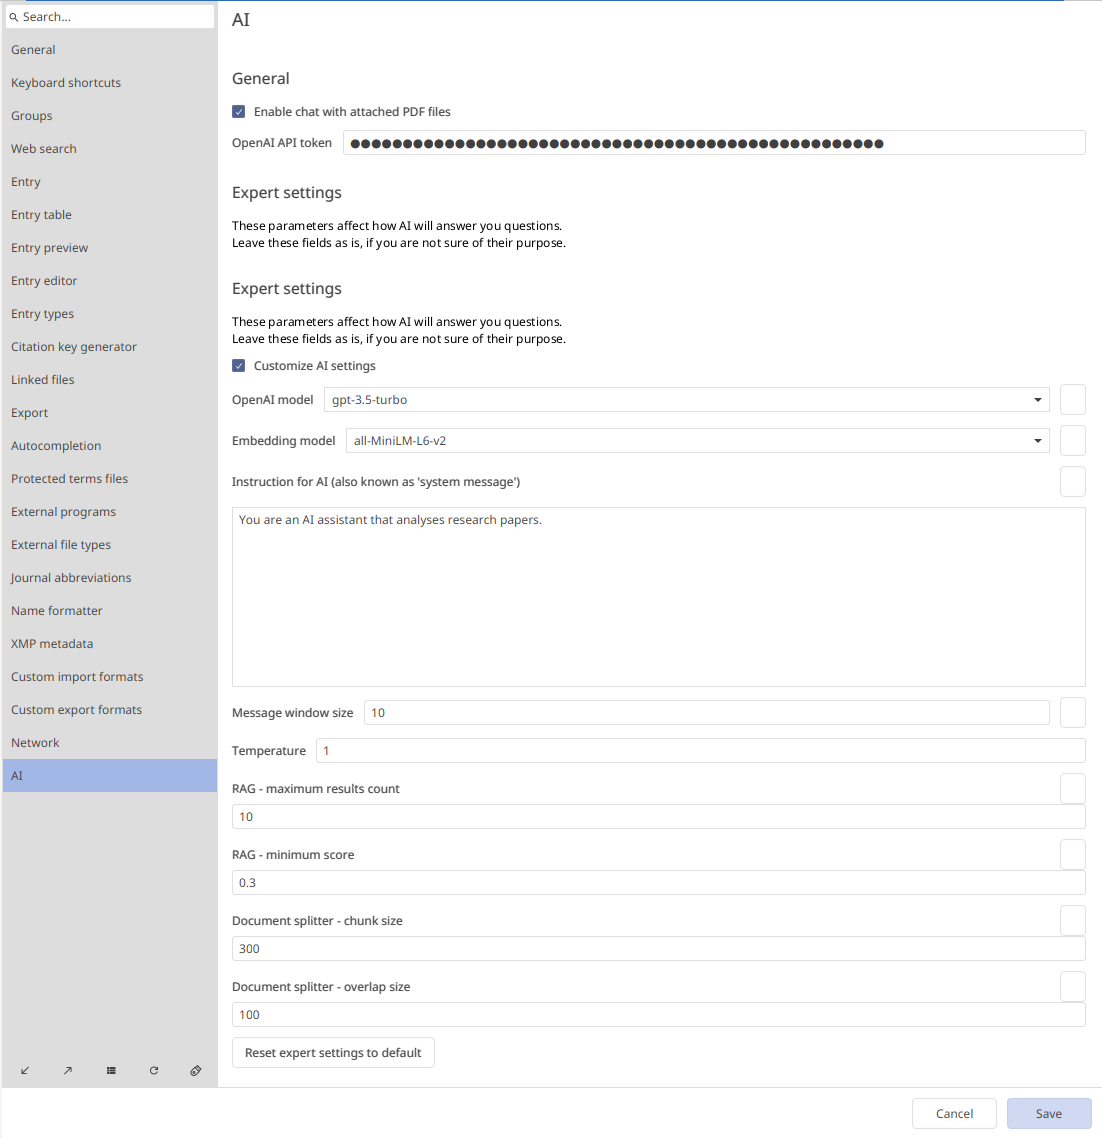
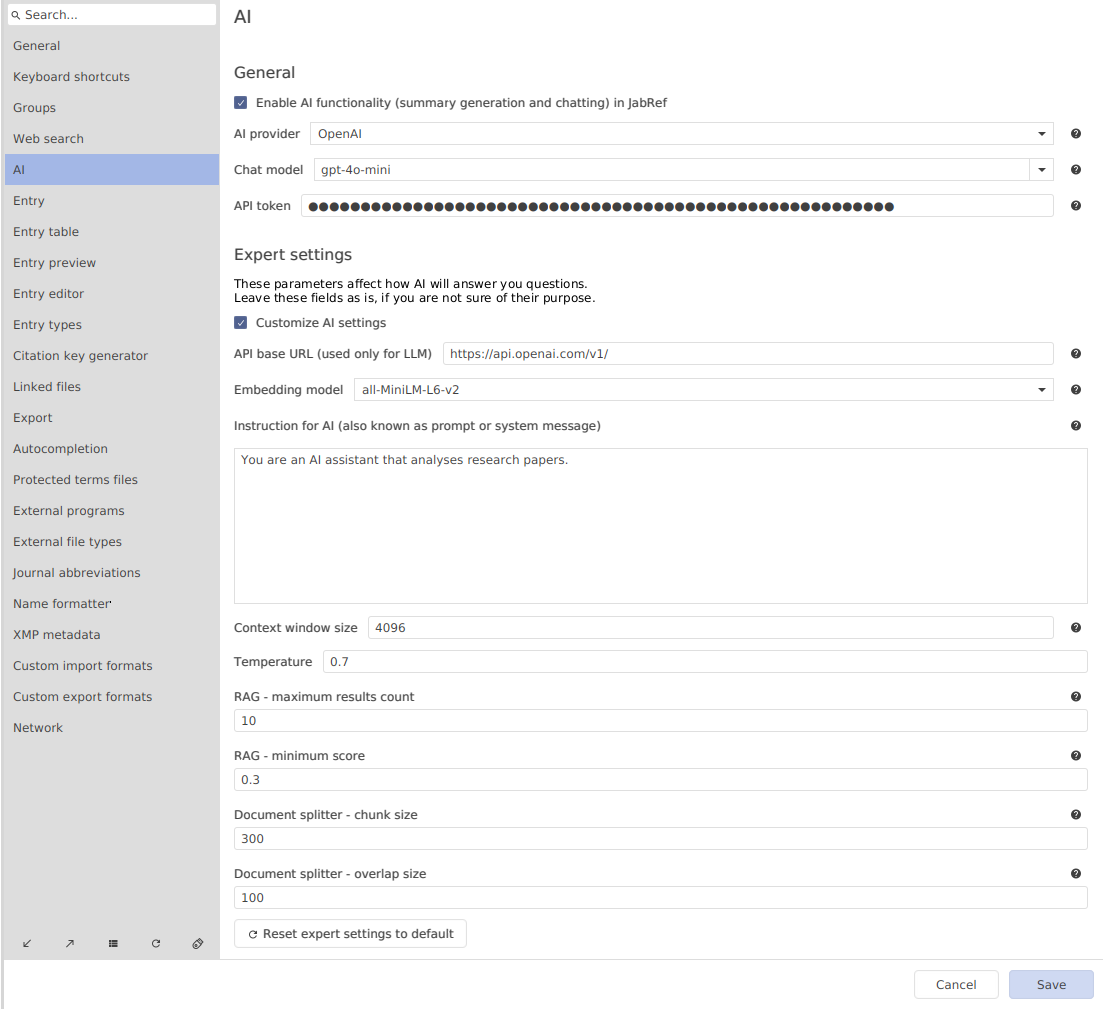
Add more AI providers and summarization

diff --git a/_posts/2024-07-01-AI-chatting.md b/_posts/2024-07-01-AI-chatting.md
@@ -6,13 +6,24 @@ author: "[Ruslan](https://github.com/InAnYan)"
 
 Hello, everyone! My name is Ruslan and I'm a novice JabRef contributor and I'm working on AI project for [Google Summer of Code](https://summerofcode.withgoogle.com/).
 
-I want to introduce you to the new AI features in JabRef. Now, while you are managing your research library, you can also chat with papers using a smart AI assistant.
+I want to introduce you to the new AI features in JabRef.
+
+- AI can generate for you a summary of a research paper
+- You can also chat with papers using a smart AI assistant
+
+## AI summary tab
+
+We have made a new entry editor tab: "AI Summary", where AI will generate for you a quick overview of the paper.
+
+![AI summary tab screenshot](../img/AiSummary.png)
+
+The AI will mention for you main objectives of the research, methods used, key findings, and conclusions.
 
 ## AI chat tab
 
-We have made a new entry editor tab: "AI chat", where all the chatting happens.
+The next new entry editor tab is "AI chat", where all the question and answering (Q&A) happens.
 
-![AI chat tab screenshot](../img/AiIntro.png)
+![AI chat tab screenshot](../img/AiChat.png)
 
 In this window you can see the following elements:
 
@@ -27,31 +38,62 @@ Let's ask about the chocolate.
 ![AI first question and answer](../img/AiQuestion1.png)
 
 Correct! The authors talk a lot about chocolate components, and how it can be a powerfull antioxidant.
+Wow! AI has given so much infromation, and it's true: chocolate really contains polyphenols and fatty acids.
 
-It seems the AI mentioned the amount of chocolate a human should eat. Let's dive in this topic.
+I was wondering, how much chocolate should a human eat in a day? Let's dive in this topic.
 
 ![AI second question and answer](../img/AiQuestion2.png)
 
-*Only 40 grams?* Well, health is our wealth. And AI helped us to uncover this information fast!
+*Only 40 grams?* Well, our health is our wealth. And AI helped us to uncover this information!
 
 ## How does this work?
 
-In the background, JabRef analyses the linked PDF files of library entries. The information used after the indexing is then supplied to the AI, which, to be precise, in our case is a Large Language Model (LLM). The LLM is currently not stored on your computer. Instead, we used OpenAI's ChatGPT service, which is only available remotely via the internet. In short: we send chunks of text to OpenAI's service and then receive processed responses. In order to use it you need to configure JabRef to use your OpenAI [API](https://en.wikipedia.org/wiki/API) key.
+In the background, JabRef analyses the linked PDF files of library entries. The information used after the indexing is then supplied to the AI, which, to be precise, in our case is a Large Language Model (LLM). The LLM is currently not stored on your computer. Instead, we have many integrations with AI providers (OpenAI, Mistral AI, Hugging Face), so you can choose the one you like the most. These AI providers are available only remotely via the internet. In short: we send chunks of text to AI service and then receive processed responses. In order to use it you need to configure JabRef to use your [API](https://en.wikipedia.org/wiki/API) key.
 
-## How to get an OpenAI API key?
+## Which AI provider should I use?
 
-Unfortunately you need to pay OpenAI a minimum fee for using ChatGPT via API, which is at the date of writing 5$. We will describe all the necessary steps in this step. 
+We recomend you chosing the OpenAI.
+
+For Mistral AI you need to make a subscription, while for OpenAI you can send money one time.
+
+Hugging Face gives you access to numerous count of models for free. But it will take a very long time for Hugging Face to find a free computer resources for you, and the response time will be also long.
+
+## How to get an API key?
+
+### How to get an OpenAI API key?
 
 To get an OpenAI API key you need to perform these steps:
 
-1. Login or create account [there](https://platform.openai.com/login?launch)
+1. Login or create an account on [OpenAI website](https://platform.openai.com/login?launch)
 2. Go to "API" section
 3. Go to "Dashboard" (upper-right corner)
 4. Go to "API keys" (left menu)
 5. Click "Create new secret key"
 6. Click "Create secret key"
-7. OpenAI will show you the key. Do not share it with anyone. 
-    
+7. OpenAI will show you the key
+
+### How to get a Mistral AI API key?
+
+1. Login or create an account on [Mistral AI website](https://auth.mistral.ai/ui/login)
+2. Go to the [dashboard -> API keys](https://console.mistral.ai/api-keys/)
+3. There you will find a button "Create new key". Click on it
+4. You can optionally setup a name to API key and its expiration date
+5. After the creation, you will see "Your key is:" with a string of random characters after that
+
+### How to get a Hugging Face API key?
+
+Hugging Face call an "API key" as "Access Token". It does not make much difference, you can interchangably use either "API key", or "API token", or "access token".
+
+1. [Login](https://huggingface.co/login) or [create account](https://huggingface.co/join) on Hugging Face
+2. Go to [create access token](https://huggingface.co/settings/tokens/new?)
+3. Set "Token Type" to "Read"
+4. Name a token
+5. After you click "Create token", a popup will be shown with the API key
+
+## What should I do with the API key and how can I enter it in JabRef?
+
+Don't share the key to anyone, it's a secret that was created only for your account. Don't enter this key to unknown and unverfied services.
+
 Now you need to copy and paste it in JabRef preferences. To do this:
 
 1. Launch JabRef
@@ -59,32 +101,51 @@ Now you need to copy and paste it in JabRef preferences. To do this:
 3. Check "Enable chatting with PDFs"
 3. Paste the key into "OpenAI token"
 9. Click "Save"
-    
+
 If you have some money on your credit balance, you can chat with your library!
+
+## How to increase money balance for API key?
+
+### OpenAI
 
 In order to increase your credit balance on OpenAI, do this:
 
 1. Add payment method [there](https://platform.openai.com/settings/organization/billing/payment-methods).
 2. Add credit balance on [this](https://platform.openai.com/settings/organization/billing/overview) page.
 
+### Mistral AI
+
+Make the subscription on [their website](https://console.mistral.ai/billing/subscribe/).
+
+### Hugging Face
+
+You don't have to pay any cent for Hugging Face in order to send requests to LLMs. Though, the speed is very slow.
+
 ## AI preferences
 
-Here are some new options in the JabRef preferences. 
+Here are some new options in the JabRef preferences.
 
 ![AI preferences](../img/AiPreferences.png)
 
-- "Enable chatting with PDFs": by default chatting is turned off, so you need to check this option, if you want to use the new AI features
-- "OpenAI token": here you page your API token
-- "Expert settings": here you can change the parameters that affect how AI will generate your answers. If you don't understand the meaning of those settings, don't worry! We have experimented a lot and found the best parameters for you!
+- "Enable AI functionality in JabRef": by default it's turned off, so you need to check this option, if you want to use the new AI features
+- "AI provider": you can choose either OpenAI, Mistral AI, or Hugging Face
+- "Chat model": choose the model you like (for OpenAI we recommend `gpt-4o-mini`, as it the cheapest and fastest)
+- "API token": here you write your API token
+- "Expert settings": here you can change the parameters that affect how AI will generate your answers. If you don't understand the meaning of those settings, don't worry! We have experimented a lot and found the best parameters for you! But if you are curious, then you can refer to [user documentation]()
+
+## BONUS
+
+Have you ever wanted to try running a local LLM model on your computer with 100% privacy saved? We got you.
+
+We wrote a tutorial of how to install and use `ollama` and integrate it in JabRef.
 
 ## End
 
 Thank you for using JabRef and checking out the AI functionality!
 
-This is only one step of the Google Summer of Code project, so stay tuned for new AI features!
+This is only the first step of the Google Summer of Code project, so stay tuned for new AI features!
 
-Currently the chatting is under development, so some bugs may occur.
+Currently the summarization chatting is under development, so some bugs may occur.
 
 We value your opinion and we want to know: What AI features would you like to see in JabRef in future? What LLM providers would you like to have in next versions?
 
-(List of LLM providers: [Huggingface](https://huggingface.co/pricing#endpoints), [Azure](https://azure.microsoft.com/en-us/products/#ai-machine-learning), [Together.AI](https://www.together.ai/), [Google](https://ai.google/discover/our-models/), [MistralAI](https://mistral.ai/), [Anthrophic](https://www.anthropic.com/), [Meta](https://llama.meta.com/), ... )
